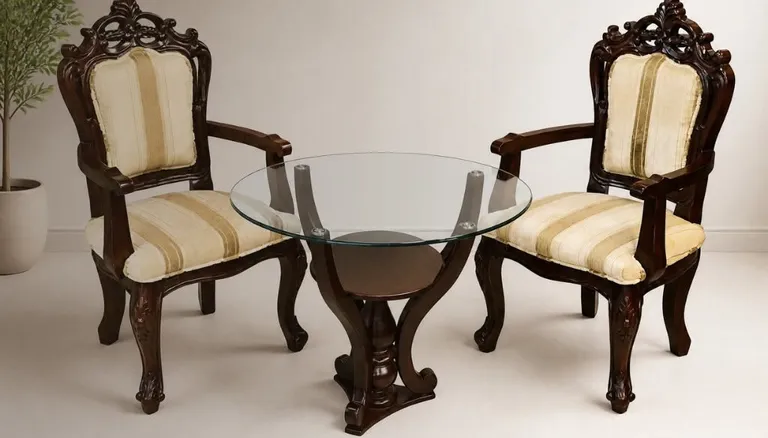
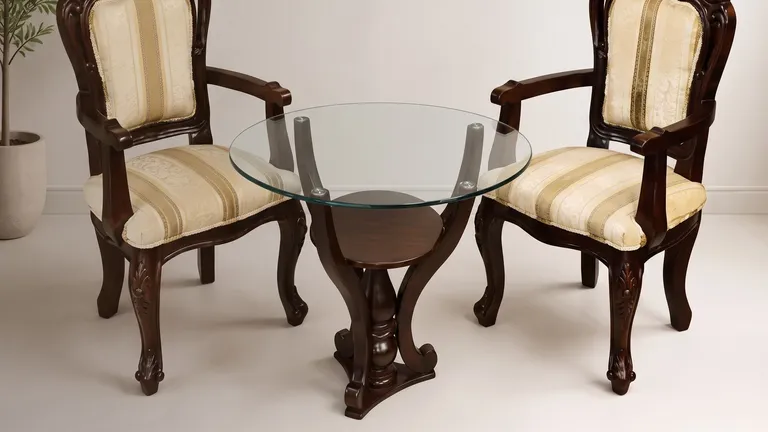
feat: HD hero photographs, a rail for the pieces, and one voice per point
THE HERO IS NO LONGER UPSCALED. Saadman's Gemini restorations landed, and
they are what they were asked to be: the same rooms, the same furniture,
the ad overlays gone, at 2048 instead of 1024. Verified against the
originals before use - hero-1-1 and hero-mobile-3-4 are living-03-wood-set,
the fr3r file is bespoke-chairs-01, and her-2 is dining-02-peach (same
marble table, same peach quilted chairs, same carved base). Nothing here
is invented furniture.

They go into graded/, which optimize-photos already prefers over
originals/, so nothing had to be rewired. The 16:9 desktop window and the
3:4 phone window are cropped from those files - a crop invents nothing,
and it stops the pipeline shipping pixels that object-fit throws away.

Measured with a real browser at 390x844 @3x and 1440x900 @2x:

  phone LCP    living-03-wood-set-tall-469  ->  -tall-1600
  desktop LCP  living-03-wood-set-1024      ->  -2048

The phone needed 1170 device px and was being served 469 - a 2.5x upscale
on the single image a judge sees first. That was QA finding D1, and it is
closed.

Hero view 2 is the dining set rather than the blue pair, because the blue
pair has no HD counterpart and this one now has both windows. Every one of
the three views is HD on both shapes.

THE PIECES TRAVEL LIKE THE ROOMS DO (client: "like category section
onscroll moving from right to left 6 images with GSAP"). The counter-drift
this section had was the wrong answer to "a different direction" - what
[…]

diff --git a/src/content/photos.generated.ts b/src/content/photos.generated.ts
@@ -49,19 +49,19 @@ export const photos = {
     "alpha": false
   },
   "bespoke-chairs-01": {
-    "src": "/img/bespoke-chairs-01-1024.webp",
-    "srcSet": "/img/bespoke-chairs-01-480.webp 480w, /img/bespoke-chairs-01-768.webp 768w, /img/bespoke-chairs-01-1024.webp 1024w",
-    "width": 1024,
-    "height": 584,
[1 lines of base64/hex data omitted]
+    "src": "/img/bespoke-chairs-01-2048.webp",
+    "srcSet": "/img/bespoke-chairs-01-480.webp 480w, /img/bespoke-chairs-01-768.webp 768w, /img/bespoke-chairs-01-1024.webp 1024w, /img/bespoke-chairs-01-1600.webp 1600w, /img/bespoke-chairs-01-2048.webp 2048w",
+    "width": 2048,
+    "height": 1152,
[1 lines of base64/hex data omitted]
     "alpha": false
   },
   "bespoke-chairs-01-tall": {
-    "src": "/img/bespoke-chairs-01-tall-438.webp",
-    "srcSet": "/img/bespoke-chairs-01-tall-438.webp 438w",
-    "width": 438,
-    "height": 584,
[1 lines of base64/hex data omitted]
+    "src": "/img/bespoke-chairs-01-tall-1536.webp",
+    "srcSet": "/img/bespoke-chairs-01-tall-480.webp 480w, /img/bespoke-chairs-01-tall-768.webp 768w, /img/bespoke-chairs-01-tall-1024.webp 1024w, /img/bespoke-chairs-01-tall-1536.webp 1536w",
+    "width": 1536,
+    "height": 2048,
[1 lines of base64/hex data omitted]
     "alpha": false
   },
   "detail-01-blue-sofa": {
@@ -81,11 +81,19 @@ export const photos = {
     "alpha": false
   },
   "dining-02-peach": {
-    "src": "/img/dining-02-peach-1024.webp",
-    "srcSet": "/img/dining-02-peach-480.webp 480w, /img/dining-02-peach-768.webp 768w, /img/dining-02-peach-1024.webp 1024w",
-    "width": 1024,
-    "height": 625,
[1 lines of base64/hex data omitted]
+    "src": "/img/dining-02-peach-2048.webp",
+    "srcSet": "/img/dining-02-peach-480.webp 480w, /img/dining-02-peach-768.webp 768w, /img/dining-02-peach-1024.webp 1024w, /img/dining-02-peach-1600.webp 1600w, /img/dining-02-peach-2048.webp 2048w",
+    "width": 2048,
+    "height": 1152,
[1 lines of base64/hex data omitted]
+    "alpha": false
+  },
+  "dining-02-peach-tall": {
+    "src": "/img/dining-02-peach-tall-1536.webp",
+    "srcSet": "/img/dining-02-peach-tall-480.webp 480w, /img/dining-02-peach-tall-768.webp 768w, /img/dining-02-peach-tall-1024.webp 1024w, /img/dining-02-peach-tall-1536.webp 1536w",
+    "width": 1536,
+    "height": 2048,
[1 lines of base64/hex data omitted]
     "alpha": false
   },
   "dining-03-glass-top": {
@@ -185,19 +193,19 @@ export const photos = {
     "alpha": false
   },
   "living-03-wood-set": {
-    "src": "/img/living-03-wood-set-1024.webp",
-    "srcSet": "/img/living-03-wood-set-480.webp 480w, /img/living-03-wood-set-768.webp 768w, /img/living-03-wood-set-1024.webp 1024w",
-    "width": 1024,
-    "height": 625,
[1 lines of base64/hex data omitted]
+    "src": "/img/living-03-wood-set-2048.webp",
+    "srcSet": "/img/living-03-wood-set-480.webp 480w, /img/living-03-wood-set-768.webp 768w, /img/living-03-wood-set-1024.webp 1024w, /img/living-03-wood-set-1600.webp 1600w, /img/living-03-wood-set-2048.webp 2048w",
+    "width": 2048,
+    "height": 1152,
[1 lines of base64/hex data omitted]
     "alpha": false
   },
   "living-03-wood-set-tall": {
-    "src": "/img/living-03-wood-set-tall-469.webp",
-    "srcSet": "/img/living-03-wood-set-tall-469.webp 469w",
-    "width": 469,
-    "height": 625,
[1 lines of base64/hex data omitted]
+    "src": "/img/living-03-wood-set-tall-1792.webp",
+    "srcSet": "/img/living-03-wood-set-tall-480.webp 480w, /img/living-03-wood-set-tall-768.webp 768w, /img/living-03-wood-set-tall-1024.webp 1024w, /img/living-03-wood-set-tall-1600.webp 1600w, /img/living-03-wood-set-tall-1792.webp 1792w",
+    "width": 1792,
+    "height": 2400,
[1 lines of base64/hex data omitted]
     "alpha": false
   },
   "living-04-gold-armchairs": {

diff --git a/src/components/motion/NightMotion.tsx b/src/components/motion/NightMotion.tsx
@@ -248,75 +248,68 @@ export function NightMotion() {
 
         /* ============ CH.2b · SIGNATURE PIECES ============
 
-           THE WALL TRAVELS SIDEWAYS; THE PIECES TRAVEL THE OTHER WAY
-           (client: "like categories onscroll gsap effect for desktop and
-           mobile view but from different direction").
+           THE SAME MECHANIC AS THE ROOMS WALL, and deliberately so (client:
+           "like category section onscroll moving from right to left 6 images
+           with GSAP"). The chapter pins, the track travels, and the six
+           pieces walk past from the right on a vertical scroll - nothing
+           here asks for a sideways gesture.
 
-           The floor's rail is one horizontal sweep of the whole chapter.
-           Repeating that here would read as the same trick twice and cost
-           a second pin, so this is its counterpart rather than its copy:
-
-             wide    the three columns DRIFT AGAINST EACH OTHER as the
-                     section passes - outer columns rising, the middle one
-                     falling - so the grid breathes vertically where the
-                     wall above moved horizontally. Scrubbed, so the
-                     visitor is driving it.
-             phone   one column, so there is nothing to drift against.
-                     Each card arrives FROM ALTERNATE SIDES instead -
-                     left, right, left - which is the same "different
-                     direction" idea at one card wide.
-
-           yPercent and xPercent only: compositor work, no layout, and
-           nothing here changes the height of anything. */
-        const sig = q('[data-sig-grid]')
-        if (sig) {
-          const plates = gsap.utils.toArray<HTMLElement>('[data-sig-card]', sig)
+           It is a snap carousel in the server HTML, which is what a no-JS
+           or reduced-motion visitor keeps: the motion layer only takes the
+           scrolling over, it never builds the row. */
+        const sigTrack = q('[data-sig-track]')
+        const sigSection = q('#signature')
+        if (sigTrack && sigSection) {
+          const plates = gsap.utils.toArray<HTMLElement>('[data-sig-card]', sigTrack)
+          const sigBar = q('[data-sig-bar] i')
           /* off the CSS reveal system: a transition still bound to an
              element GSAP writes every frame smears the tween */
           plates.forEach((el) => el.removeAttribute('data-wait'))
           gsap.set(plates, { transition: 'none' })
 
-          if (window.matchMedia('(min-width: 900px)').matches) {
-            const DRIFT = 7
-            plates.forEach((el, i) => {
-              /* the middle column of three goes the other way */
-              const dir = i % 3 === 1 ? -1 : 1
-              gsap.fromTo(
-                el,
-                { yPercent: dir * DRIFT },
-                {
-                  yPercent: -dir * DRIFT,
-                  ease: 'none',
-                  scrollTrigger: {
-                    trigger: sig,
-                    start: 'top bottom',
-                    end: 'bottom top',
-                    scrub: 1,
-                    invalidateOnRefresh: true,
-                  },
+          sigSection.dataset.rail = ''
+          const sigDist = () => Math.max(0, sigTrack.scrollWidth - sigTrack.clientWidth)
+          const sigTravel = gsap.to(sigTrack, {
+            x: () => -sigDist(),
+            ease: 'none',
+            scrollTrigger: {
+              trigger: sigSection,
+              start: 'top top',
+              end: () => '+=' + sigDist(),
+              pin: true,
+              scrub: 1,
+              invalidateOnRefresh: true,
+              anticipatePin: 1,
+              onUpdate: (st) => {
+                if (sigBar) gsap.set(sigBar, { scaleX: st.progress })
+              },
+            },
+          })
+          cleanups.push(() => {
+            delete sigSection.dataset.rail
+          })
+
+          /* each plate lifts and squares up as it arrives from the right,
+             which is what stops six identical cards reading as a filmstrip */
+          plates.forEach((card) => {
+            gsap.fromTo(
+              card,
+              { rotateY: 14, y: 24, opacity: 0.75, transformPerspective: 900 },
+              {
+                rotateY: 0,
+                y: 0,
+                opacity: 1,
+                ease: 'power2.out',
+                scrollTrigger: {
+                  trigger: card,
+                  containerAnimation: sigTravel,
+                  start: 'left 94%',
+                  end: 'left 58%',
+                  scrub: true,
                 },
-              )
-            })
-          } else {
-            plates.forEach((el, i) => {
-              gsap.fromTo(
-                el,
-                { xPercent: i % 2 === 0 ? -14 : 14, autoAlpha: 0 },
-                {
-                  xPercent: 0,
-                  autoAlpha: 1,
-                  ease: 'power2.out',
-                  scrollTrigger: {
-                    trigger: el,
-                    start: 'top 92%',
-                    end: 'top 58%',
-                    scrub: 1,
-                    invalidateOnRefresh: true,
-                  },
-                },
-              )
-            })
-          }
+              },
+            )
+          })
         }
 
         /* ================= CH.2 · PRINT: the founding line ==============

diff --git a/src/components/night/night.module.css b/src/components/night/night.module.css
@@ -3102,14 +3102,73 @@
   opacity: 0.72;
 }
 
-.sigGrid {
-  display: grid;
-  grid-template-columns: repeat(auto-fit, minmax(min(100%, 300px), 1fr));
+/* ---- THE TRACK ----
+   A native snap carousel by default - the server HTML, and what a no-JS or
+   reduced-motion visitor keeps - and a rail the motion layer translates
+   once it takes over. Same two-state arrangement as the rooms wall above,
+   for the same reason: the finished page must work before the motion
+   layer arrives, and the motion layer must not have to build anything. */
+.sigRail {
+  display: flex;
   gap: clamp(1.25rem, 2.6vw, 2rem);
+  padding-inline: var(--pad-x);
+  overflow-x: auto;
+  scroll-snap-type: x mandatory;
+  scrollbar-width: none;
+  -webkit-overflow-scrolling: touch;
+}
+
+.sigRail::-webkit-scrollbar {
+  display: none;
 }
 
 .sigCard {
+  flex: 0 0 auto;
+  width: clamp(240px, 78vw, 340px);
   min-width: 0;
+  scroll-snap-align: center;
+}
+
+/* pinned: the track is a flex item that would otherwise grow to its own
+   content, which makes scrollWidth - clientWidth zero and the travel
+   nothing. Same fix the wall needed. */
+.signature[data-rail] .sigRail {
+  width: 100%;
+  min-width: 0;
+  max-width: 100vw;
+  overflow: visible;
+  will-change: transform;
+}
+
+.signature[data-rail] .sigCard {
+  width: clamp(260px, 26vw, 360px);
+}
+
+/* the travel, drawn: a hairline that fills as the six go past. It is a
+   progress bar, not a control - there is nothing here to operate. */
+.sigBar {
+  width: min(200px, 42vw);
+  height: 1px;
+  margin-inline: var(--pad-x);
+  background: rgba(244, 240, 232, 0.16);
+  overflow: hidden;
+}
+
+.sigBar i {
+  display: block;
+  width: 100%;
+  height: 100%;
+  background: var(--brass);
+  transform: scaleX(0);
+  transform-origin: left center;
+}
+
+@media (min-width: 900px) {
+  .signature[data-rail] {
+    height: 100svh;
+    padding: 0;
+    align-content: center;
+  }
 }
 
 .sigLink {

diff --git a/src/components/night/Signature.tsx b/src/components/night/Signature.tsx
@@ -44,7 +44,15 @@ export function Signature() {
         <p className={s.sigLine}>{sig.line}</p>
       </div>
 
-      <div className={`${s.inner} ${s.sigGrid}`} data-sig-grid data-stagger>
+      {/* THE SAME MECHANIC AS THE ROOMS WALL (client: "like category
+          section onscroll moving from right to left 6 images with GSAP"):
+          a track the motion layer pins and travels sideways, so the six
+          pieces walk past on a vertical scroll.
+
+          It is a native scroll-snap carousel in the server HTML, exactly
+          as the wall is - that is what a no-JS or reduced-motion visitor
+          keeps, and it is a working control rather than a dead row. */}
+      <div className={s.sigRail} data-sig-track data-stagger>
         {sig.pieces.map((piece, i) => (
           <article
             key={piece.photo}
@@ -94,6 +102,10 @@ export function Signature() {
             </a>
           </article>
         ))}
+      </div>
+
+      <div className={s.sigBar} data-sig-bar aria-hidden="true">
+        <i />
       </div>
 
       <div className={`${s.inner} ${s.sigFoot}`}>

diff --git a/src/components/night/Studio.tsx b/src/components/night/Studio.tsx
@@ -31,14 +31,16 @@ export function Studio() {
           <Narrator id="studio" />
         </div>
 
-        {/* the offer, in three sentences. Each arrives on its own. */}
-        <div className={s.bigLines} data-stagger>
-          {st.lines.map((line) => (
-            <div key={line} data-reveal="words">
-              <Words lines={[line]} as="p" className={s.bigLine} />
-            </div>
-          ))}
-        </div>
+        {/* THE THREE BIG LINES ARE GONE (client: "keep only icon based
+            texts, remove we draw it in your room.. these texts").
+
+            "We draw it to your room. / We build it in our own workshop. /
+            We deliver it and fit it." sat directly above three points that
+            say the same three things - Drawn to you, Built in-house,
+            Delivered and fitted - with a mark drawn for each and the
+            detail behind a button. Saying it twice made the chapter twice
+            as long and no clearer, and the marks are the version a visitor
+            actually reads. */}
 
         <Points />
 

diff --git a/src/content/copy.ts b/src/content/copy.ts
@@ -715,7 +715,7 @@ export const night = {
        portal pushes into (the fabric of the seat), per photograph */
     views: [
       { photo: 'living-03-wood-set', tall: 'living-03-wood-set-tall', focal: '50% 62%', alt: 'A full wooden living room set by Heaven Furniture Mart.' },
-      { photo: 'living-02-blue-pair', tall: 'living-02-blue-pair-tall', focal: '52% 60%', alt: 'A matched pair of deep blue two-seat sofas by Heaven Furniture Mart.' },
+      { photo: 'dining-02-peach', tall: 'dining-02-peach-tall', focal: '50% 58%', alt: 'A marble dining table with upholstered chairs by Heaven Furniture Mart.' },
       { photo: 'bespoke-chairs-01', tall: 'bespoke-chairs-01-tall', focal: '58% 62%', alt: 'Bespoke upholstered chairs, built to order in Chattogram.' },
     ],
   },
